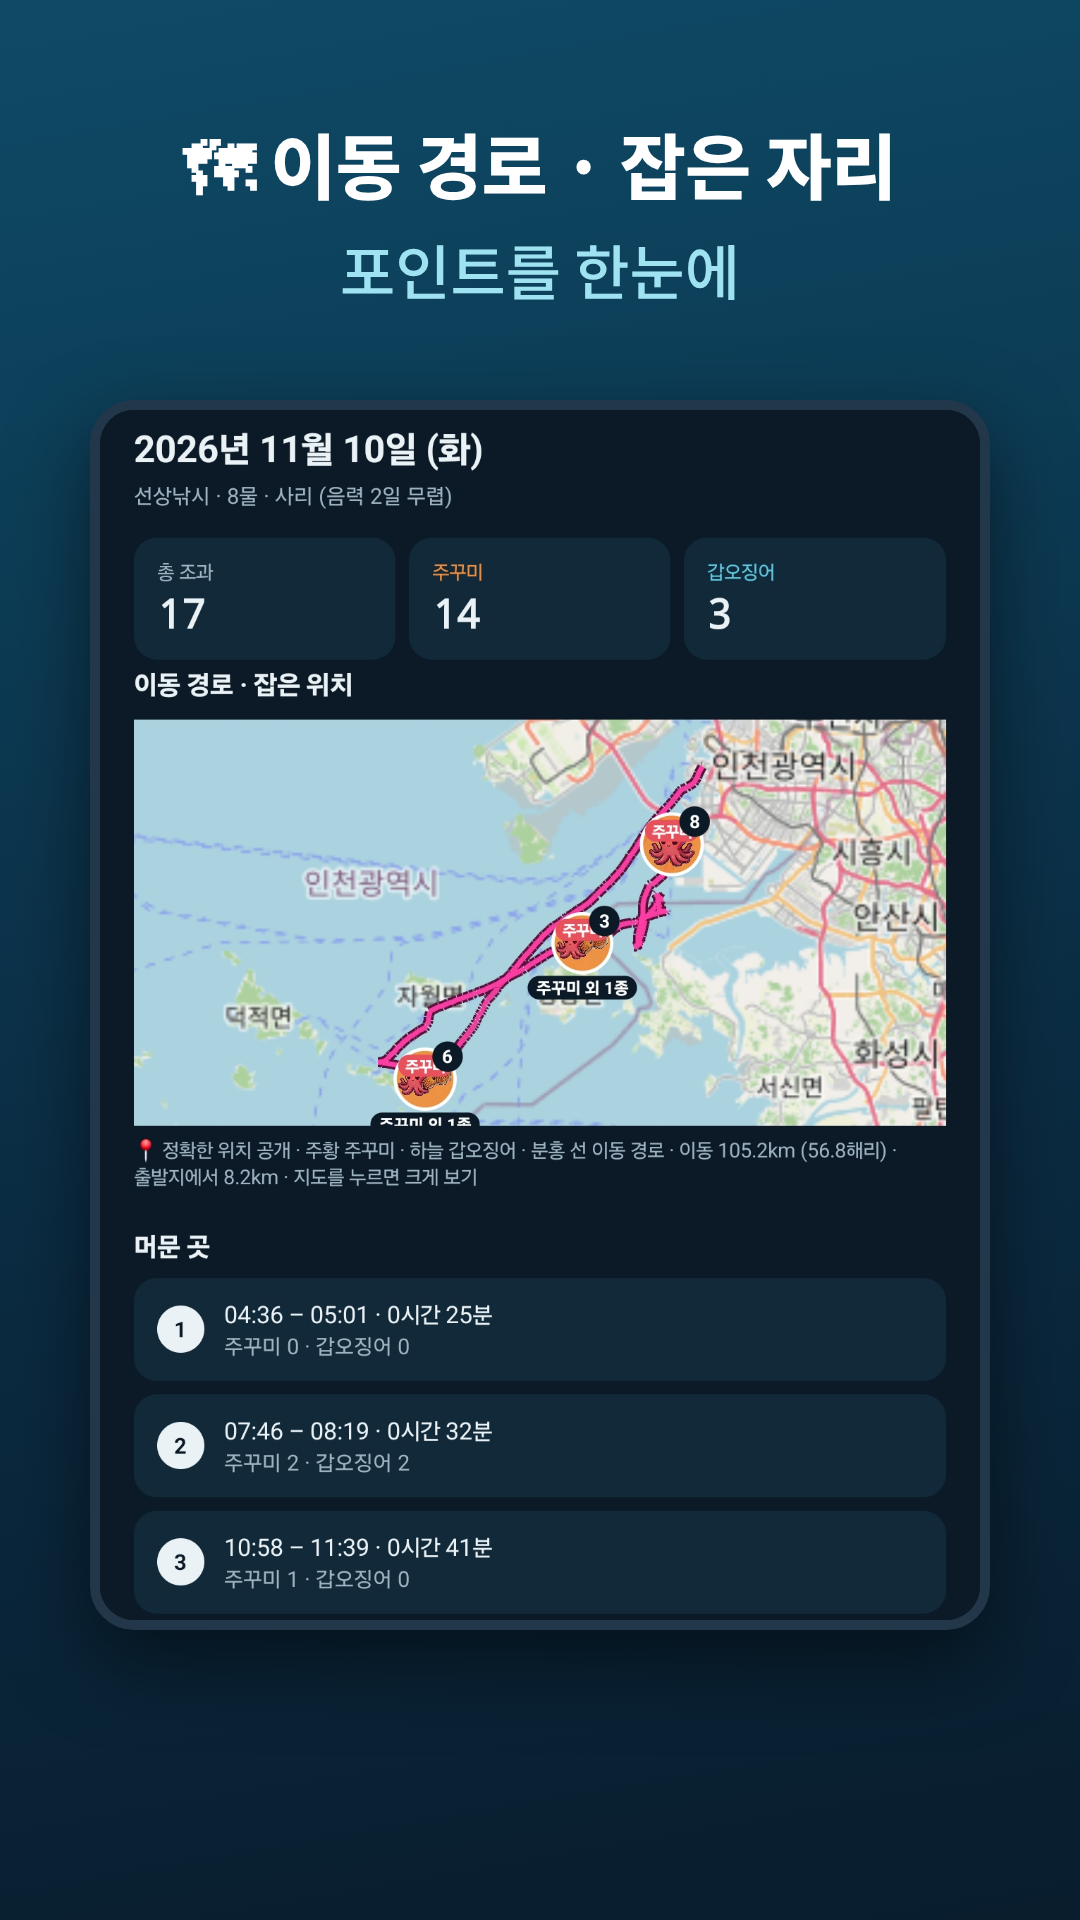
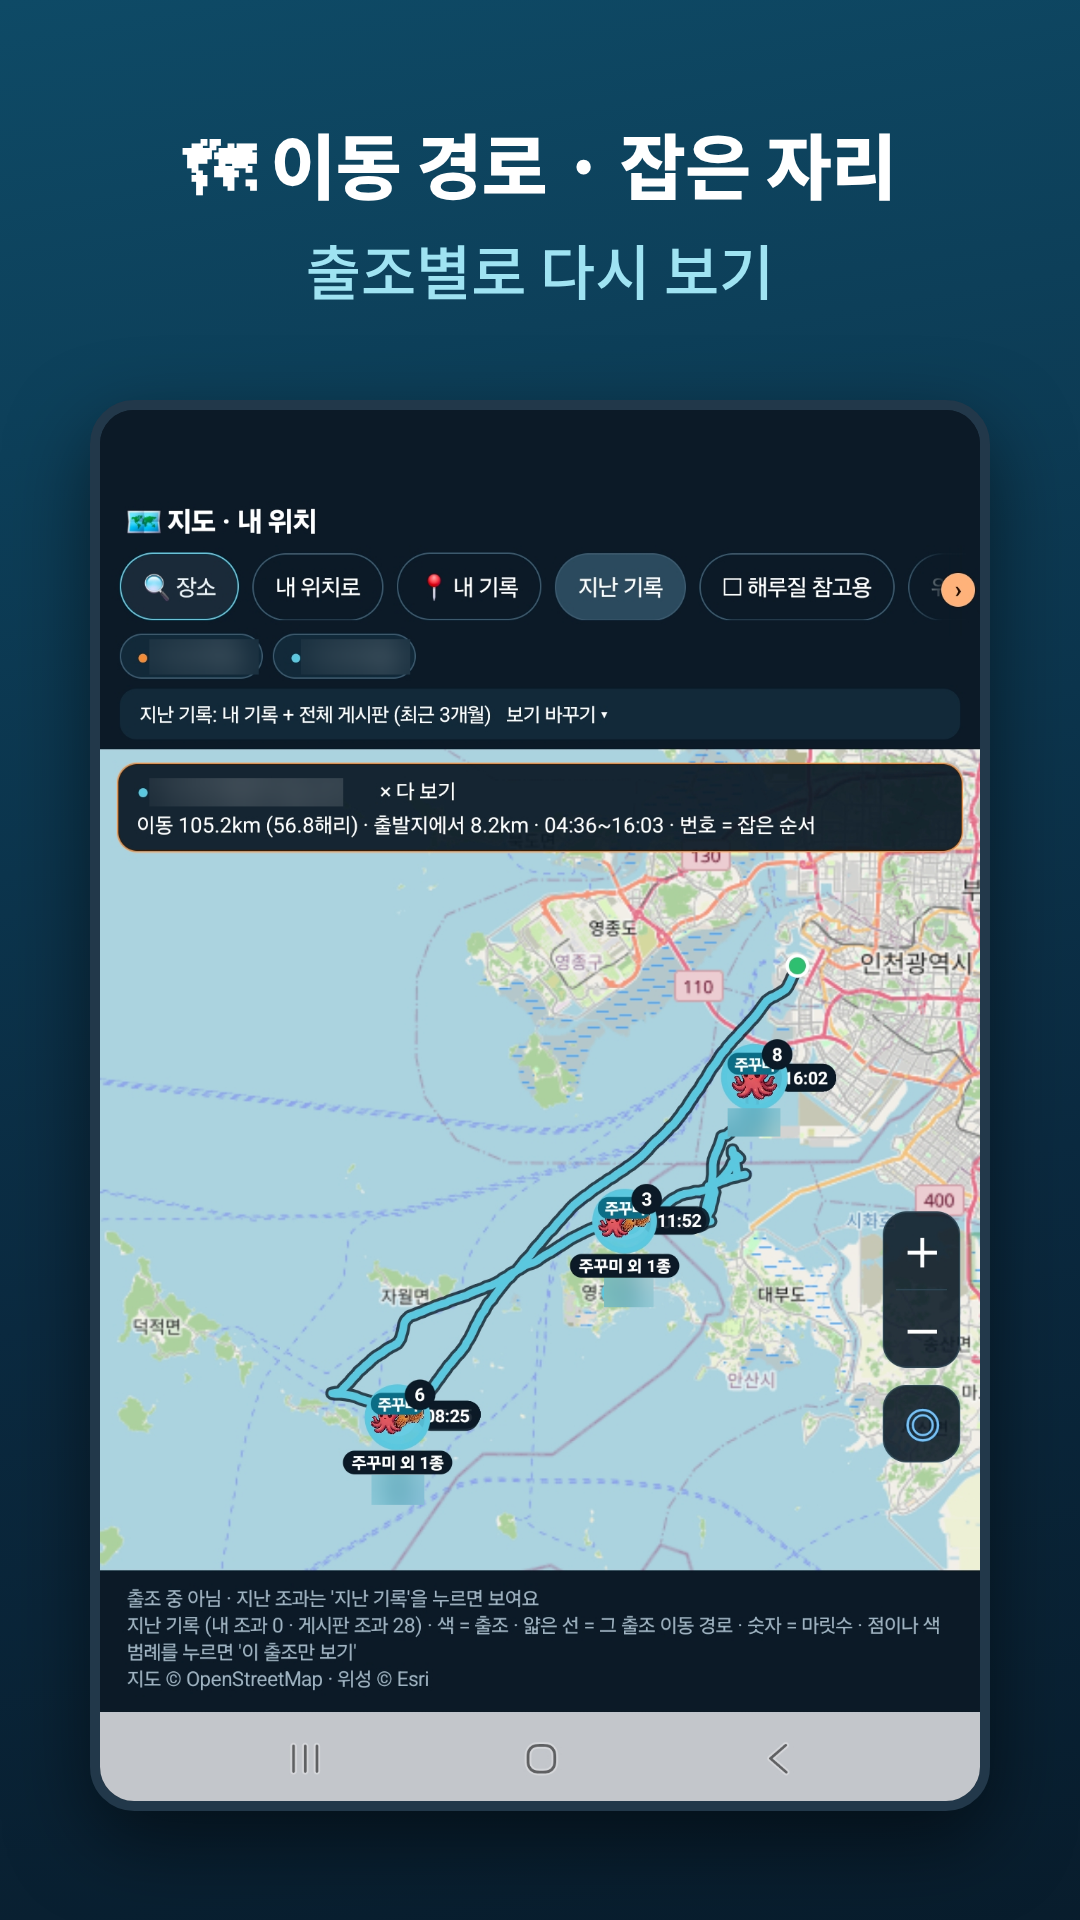
스토어 스크린샷 7장 (경로 · 지난 기록 · 해루질 · 사이트 추가 · 닉네임/선사 가림)
Claude-Session: https://claude.ai/code/session_016t4SnwFrGRvA1Ddk9hrxqS

diff --git a/store/play.py b/store/play.py
@@ -14,8 +14,8 @@ LANG = "ko-KR"
 API = f"https://androidpublisher.googleapis.com/androidpublisher/v3/applications/{PKG}"
 UP = f"https://androidpublisher.googleapis.com/upload/androidpublisher/v3/applications/{PKG}"
 HERE = os.path.dirname(os.path.abspath(__file__))
-# 스토어에 올릴 스크린샷 (순서대로) — 3번은 다른 사람 경로가 보여서 사용자 확인 전까지 뺌
-SHOTS = ["screenshot-1.png", "screenshot-2.png", "screenshot-4.png"]
+# 스토어에 올릴 스크린샷 (순서대로 · 최대 8장) — 2026-11-17 사용자가 보낸 화면 · 닉네임 · 선사 이름/주소는 흐리게
+SHOTS = ["screenshot-1.png", "screenshot-2.png", "screenshot-3.png", "screenshot-7.png", "screenshot-5.png", "screenshot-6.png", "screenshot-4.png"]
 
 def session():
     info = json.loads(os.environ["PLAY_SERVICE_ACCOUNT_JSON"])

diff --git a/CLAUDE.md b/CLAUDE.md
@@ -63,7 +63,7 @@
 - ~~265~~ (v6.19에서 함 · `Weather.loadWeek` 재시도 + 기상청만으로 목록): 물때 창 '주간' 날씨가 '주간 날씨를 못 받았어요'로 나올 때가 있음 (2026-11-15 시화호). 원인: `Weather.loadWeek` 가 Open-Meteo 14일 예보(api.open-meteo.com)를 먼저 받아 날짜 목록을 만들고 기상청 단기 · 중기로 덮어씀 → Open-Meteo 하나만 실패해도(일시 장애 · 통신사 공용 IP 요청 제한 429 등) 기상청 자료가 있어도 전체가 빈칸. 고칠 것: Open-Meteo 실패하면 기상청 단기(오늘~3일) + 중기(4~10일)만으로 날짜 목록 만들기, Open-Meteo 1번 재시도, 실패 이유 문구('날씨 서버 응답 없음 · 기상청 자료로 보여 줘요').
 - ~~266~~ (v6.20에서 함 · `Weather` saveDay/diskDay/saveWeek/diskWeek · filesDir/weather · 3일 보관 · `skipFreshUntil`): 날씨 저장을 폰 파일에도 — 지금 `Weather` 의 `cache`(하루 날씨) · `weekCache`(주간)는 **메모리에만** 3시간 30분(`KEEP_MS`) · 같은 자리(소수 2자리 ≈1km) · 해상/육상 같을 때만. 앱이 꺼지면 사라지고 '↻ 새로고침'(TideDialog `Weather.clearCache()`)도 지움. 물때(KHOA)는 이미 폰 파일(filesDir/khoa). 고칠 것: 받은 날씨를 filesDir/weather 에 저장 → 앱 다시 켜도 3시간 30분 안이면 안 받음, 받기 실패하면 마지막 저장분을 'N시간 전 받은 날씨' 표시와 함께 보여 주기. 새로고침은 새로 받기만 시도(실패해도 저장분 유지).
 - **267 (2026-11-15 보안 점검):** ① ✅ 2026-11-15 콘솔 게시 완료 (rules-test 에뮬레이터 40개 통과) `firestore.rules` 보강(게시판 사진/경로 문서 · 그룹 가입 · 공유 물때/날씨/지운 글 번호 · 알림 쓰기 조건) → 파일 고친 뒤 사용자가 Firebase 콘솔 규칙에 붙여 넣고 게시 ② ✅ 2026-11-15 Firebase Android 키(e48c330e…)에 앱 제한 4개(kr.jogwailji.app × 앱서명·업로드·CE1C 디버그, com.fishlog.app × CE1C) · API 제한 27개 그대로 · 시험: 두 앱 200 · 가짜 앱 403. 카카오 REST 키는 앱 제한 기능 없음 ③ GitHub판 서명 키가 저장소에 있음 → 옮기기 스위치 켜고 GitHub판 삭제 안내 ④ 저장소 공개 여부(Pages 때문에 공개 · 비공개면 Pages 옮겨야 함).
-- **268 (만듦 2026-11-15):** 플레이 콘솔 자동 — `.github/workflows/store.yml` + `store/play.py` (서비스 계정 `PLAY_SERVICE_ACCOUNT_JSON`). ① `store/listing/ko-KR/{title,short,full}.txt` · `store/*.png` 를 main 에 올리면 등록정보(글 · 아이콘 · 그래픽 · 스크린샷 1·2·4번) 자동 업로드 — **스토어 글 · 그림 바꿀 땐 이 파일만 고치면 됨** ② Actions 탭 'Play Store' 손으로 실행 → closed = 내부 테스트 최신 버전을 비공개 테스트(alpha)로 + 테스터 구글 그룹. build.yml 은 store/ · docs/ · rules-test/ · CLAUDE.md 만 바뀌면 안 돌아요(paths-ignore). 사람만 되는 것: 앱 콘텐츠 설문 · 포그라운드 서비스 선언 · 프로덕션 신청. 포그라운드 선언 영상 = https://jonginzz33-code.github.io/fishing-log/demo/remote.mp4 (docs/demo/remote.mp4 · 2026-11-16 · 첫 1.8초 카톡 알림 흐리게) · ✅ 2026-11-16 앱 콘텐츠 12/12 (포그라운드 선언 저장). · ✅ 2026-11-16 비공개 테스트(Alpha) v6.19(100) · 대한민국 · 테스터 그룹 mytoilet-testers@googlegroups.com(화장실 앱과 같이 씀 · 사용자 선택) · 검토 전송함 → ✅ 2026-11-16 13:22 제출 · '출시됨'(통과). 테스트 참여 링크 https://play.google.com/apps/testing/kr.jogwailji.app · 그룹 가입 https://groups.google.com/g/mytoilet-testers. 다음: 12명 14일(약 11/30~12/1까지) → 프로덕션 신청. 2026-11-16 비공개 테스트 v6.24(105)로 올림(검토 자동 전송 · play.py closed 가 이제 completed 로 바로 됨). (초안 앱이라 play.py closed 는 출시를 draft 로 만듦 → 콘솔에서 출시 시작 눌러야 함)
+- **268 (만듦 2026-11-15):** 플레이 콘솔 자동 — `.github/workflows/store.yml` + `store/play.py` (서비스 계정 `PLAY_SERVICE_ACCOUNT_JSON`). ① `store/listing/ko-KR/{title,short,full}.txt` · `store/*.png` 를 main 에 올리면 등록정보(글 · 아이콘 · 그래픽 · 스크린샷 1·2·3·7·5·6·4 순서 · 2026-11-17 닉네임 · 선사 이름/주소 흐리게) 자동 업로드 — **스토어 글 · 그림 바꿀 땐 이 파일만 고치면 됨** ② Actions 탭 'Play Store' 손으로 실행 → closed = 내부 테스트 최신 버전을 비공개 테스트(alpha)로 + 테스터 구글 그룹. build.yml 은 store/ · docs/ · rules-test/ · CLAUDE.md 만 바뀌면 안 돌아요(paths-ignore). 사람만 되는 것: 앱 콘텐츠 설문 · 포그라운드 서비스 선언 · 프로덕션 신청. 포그라운드 선언 영상 = https://jonginzz33-code.github.io/fishing-log/demo/remote.mp4 (docs/demo/remote.mp4 · 2026-11-16 · 첫 1.8초 카톡 알림 흐리게) · ✅ 2026-11-16 앱 콘텐츠 12/12 (포그라운드 선언 저장). · ✅ 2026-11-16 비공개 테스트(Alpha) v6.19(100) · 대한민국 · 테스터 그룹 mytoilet-testers@googlegroups.com(화장실 앱과 같이 씀 · 사용자 선택) · 검토 전송함 → ✅ 2026-11-16 13:22 제출 · '출시됨'(통과). 테스트 참여 링크 https://play.google.com/apps/testing/kr.jogwailji.app · 그룹 가입 https://groups.google.com/g/mytoilet-testers. 다음: 12명 14일(약 11/30~12/1까지) → 프로덕션 신청. 2026-11-16 비공개 테스트 v6.24(105)로 올림(검토 자동 전송 · play.py closed 가 이제 completed 로 바로 됨). (초안 앱이라 play.py closed 는 출시를 draft 로 만듦 → 콘솔에서 출시 시작 눌러야 함)
 - ~~269~~ (v6.20에서 함 · `VolumeWatch.kt` · ButtonRouter 등록 시작/끝 · RemoteService onCreate/onDestroy): 리모컨 볼륨 버튼(3번 VOL+ · 4번 VOL−) 등록이 안 됨 — 누르면 폰 음량 창만 뜸. 원인: 등록은 `MainActivity.dispatchKeyEvent` 키 신호로만 받는데, 블루투스 음악 리모컨 볼륨은 키가 아니라 '블루투스 음량 직접 바꾸기(AVRCP 절대 음량)'로 오는 경우가 많아 앱에 안 옴 (출조 중 `RemoteService` VolumeProvider 도 같은 이유로 못 받을 수 있음). 고칠 것: 등록 중 · 출조 중에 음악 음량 바뀜(`android.media.VOLUME_CHANGED_ACTION`, 이전/새 값)을 지켜보다 올라가면 VOL_UP · 내려가면 VOL_DOWN 으로 처리하고 음량은 원래대로 되돌리기, 시작할 때 음량이 최대/0이면 한 칸 옮겨 두기(끝나면 원래대로). 키 신호로 이미 받은 건 음량이 안 바뀌어 두 번 안 셈.
 - ~~270~~ (v6.23에서 함 · `Boats.kt` · 퀵바 id "boats" · 더보기 버튼 · TripActivity 배 이름 아래 바로가기 · prefs boat_sites): ⛴ **자주 가는 선사** — 메뉴(⋯ 더보기) + 퀵바에 넣을 수 있는 메뉴 칸. 목록 한 줄 = 배(선사) 이름 · 예약 사이트 주소 · [🌐 열기](누르면 크롬 등 인터넷 창으로 그 주소, Intent.ACTION_VIEW · 'http' 빠지면 https:// 붙임) · [✎ 수정] · [🗑 삭제] · ▲▼ 순서, 맨 아래 [＋ 선사 추가]. 추가/수정 창: 배 이름(지난 출조 '배 이름' t.boat 자동 완성) · 주소 · (선택) 전화번호[📞 전화] · 메모(예: 쭈갑 · 오천항). 저장은 폰(SharedPreferences "fishlog" → 💾 백업에 자동 포함). 출조 기록 화면 배 이름 옆 '🌐 예약 사이트' 바로가기(같은 이름 있으면)는 선택.
 - ~~271~~ (v6.22에서 함 · TideDialog `renderLife` · 물때 번호 0~6 사는 · 7 사리 · 8~13 죽는 · 14 조금): 물때 창 '물세기 N%' 줄 옆에 **↗ 사는 물때(초록) / ↘ 죽는 물때(보라)** 칩 + 한 줄 설명('조금 → 사리로 가는 중 · 사리까지 N일' / '사리 지나 조금으로 가는 중 · 조금까지 N일') + 그 아래 **앞뒤 7일 물세기 작은 막대**(사는=초록 · 죽는=보라 · 고른 날 노란 테두리 · 날짜+물때 이름). 판단은 이미 계산된 날별 물세기 %(전날 대비 오름/내림) · 물때 이름(무시~7물 사는 · 8물~조금 죽는)만 씀 — ⚠ 물때 계산 · 물세기 % · 시간별 물흐름 막대는 안 바꿈, 표시만 추가.
